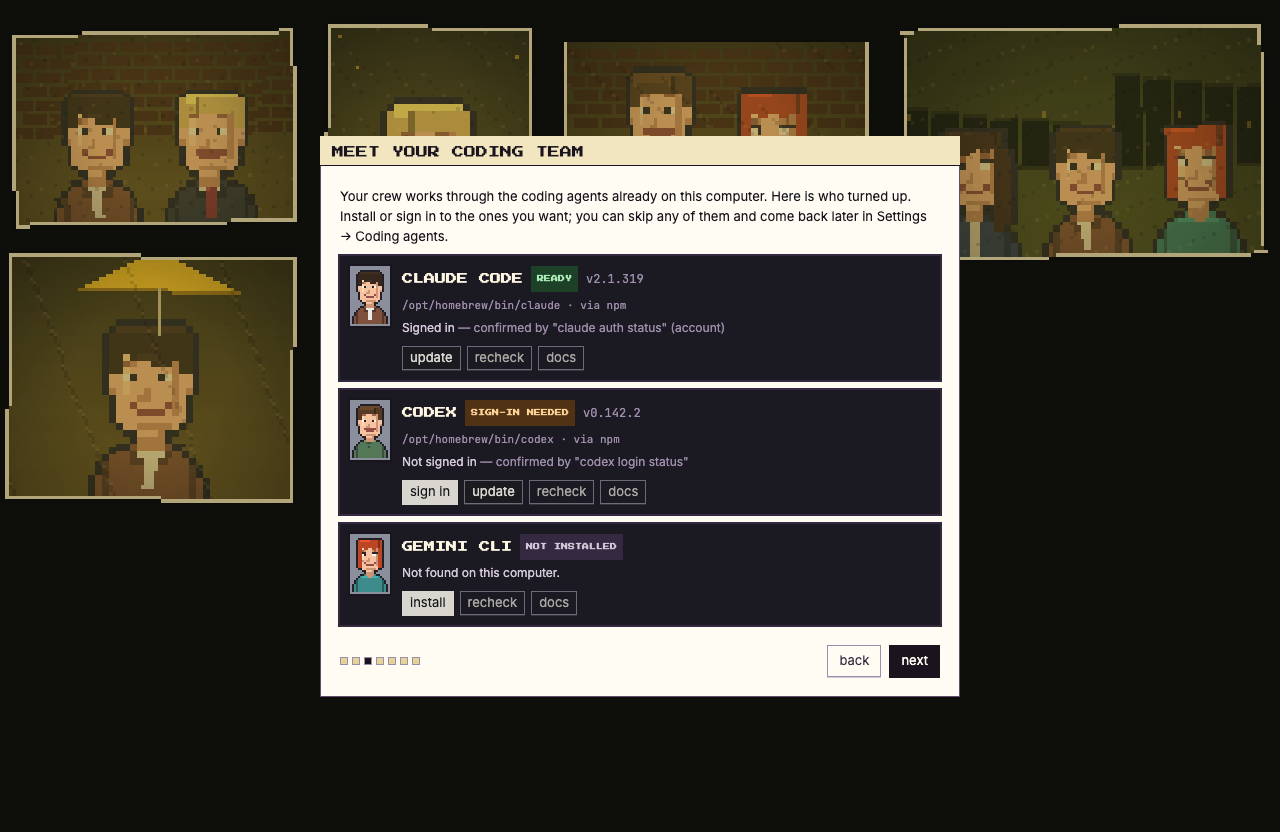
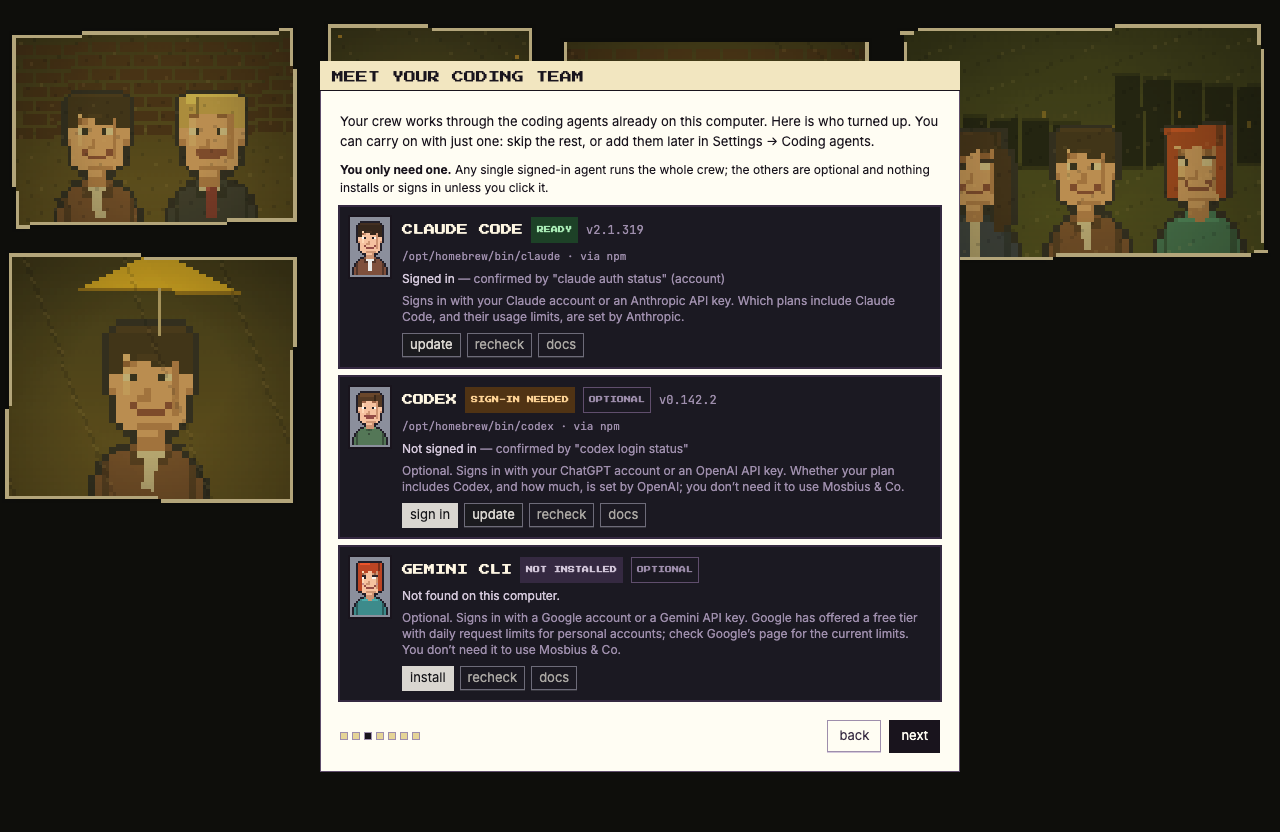
Coding agents are optional: one signed-in agent is enough
Codex and Gemini CLI are marked optional, each card says what signing in
needs without promising free allowances, and setup says you can carry on with
just one agent. Only the engine chosen for the boss (Claude Code by default)
has to be installed; nothing installs or signs in unless the user clicks.

Changed region(s): [[0.25, 0.0625, 0.75, 0.9375]]

diff --git a/src/renderer/src/components/AgentManager.tsx b/src/renderer/src/components/AgentManager.tsx
@@ -26,6 +26,15 @@ interface Status {
 // Who wears each engine on the floor, purely for flavour.
 const FACE: Record<Status['id'], OfficeCharacterName> = { claude: 'ted', codex: 'marshall', gemini: 'lily' };
 
+// What it takes to use each one. Kept deliberately general: plans and free
+// allowances are set by each provider and change, so this points to them rather
+// than promising numbers.
+const ACCESS: Record<Status['id'], string> = {
+  claude: 'Signs in with your Claude account or an Anthropic API key. Which plans include Claude Code, and their usage limits, are set by Anthropic.',
+  codex: 'Optional. Signs in with your ChatGPT account or an OpenAI API key. Whether your plan includes Codex, and how much, is set by OpenAI; you don\u2019t need it to use Mosbius & Co.',
+  gemini: 'Optional. Signs in with a Google account or a Gemini API key. Google has offered a free tier with daily request limits for personal accounts; check Google\u2019s page for the current limits. You don\u2019t need it to use Mosbius & Co.',
+};
+
 function badge(s: Status): { text: string; bg: string; fg: string } {
   if (s.install === 'not-installed') return { text: 'NOT INSTALLED', bg: '#3d2e4a', fg: '#d9cfe0' };
   if (s.install === 'broken') return { text: 'WON’T START', bg: '#5a2020', fg: '#ffd0c8' };
@@ -87,11 +96,10 @@ export function AgentManager({ compact = false }: { compact?: boolean }): JSX.El
   const ink = '#fff8e7', dim = '#a899b5';
   return (
     <div style={{ display: 'flex', flexDirection: 'column', gap: 10, fontSize: 12, color: ink }}>
-      {!compact && (
-        <div style={{ color: '#d9cfe0', lineHeight: '18px' }}>
-          Mosbius & Co uses the coding agents already installed on this computer, signed in with their own official logins. It never asks for your password or reads your login files.
-        </div>
-      )}
+      <div style={{ color: compact ? 'var(--cth-ink-900)' : '#d9cfe0', lineHeight: '18px' }}>
+        {!compact && <>Mosbius & Co uses the coding agents already installed on this computer, signed in with their own official logins. It never asks for your password or reads your login files. </>}
+        <b>You only need one.</b> Any single signed-in agent runs the whole crew; the others are optional and nothing installs or signs in unless you click it.
+      </div>
       {!list && <div style={{ color: dim }}>Looking for coding agents on this computer…</div>}
       {list?.map((s) => {
         const b = badge(s);
@@ -105,6 +113,7 @@ export function AgentManager({ compact = false }: { compact?: boolean }): JSX.El
               <div style={{ display: 'flex', alignItems: 'center', gap: 8, flexWrap: 'wrap' }}>
                 <span style={{ fontFamily: 'var(--cth-font-display)', fontSize: 11 }}>{s.label.toUpperCase()}</span>
                 <span style={{ fontFamily: 'var(--cth-font-display)', fontSize: 7, padding: '3px 6px', background: b.bg, color: b.fg }}>{b.text}</span>
+                {s.id !== 'claude' && s.auth !== 'signed-in' && <span style={{ fontFamily: 'var(--cth-font-display)', fontSize: 7, padding: '3px 6px', boxShadow: 'inset 0 0 0 1px #6b5878', color: '#a899b5' }}>OPTIONAL</span>}
                 {s.version && <span style={{ fontFamily: 'var(--cth-font-mono)', color: dim }}>v{s.version}</span>}
               </div>
               {s.path && <div style={{ fontFamily: 'var(--cth-font-mono)', fontSize: 11, color: dim, marginTop: 3, overflow: 'hidden', textOverflow: 'ellipsis', whiteSpace: 'nowrap' }}>{s.path}{s.via && s.via !== 'unknown' ? `  ·  via ${s.via}` : ''}</div>}
@@ -113,6 +122,7 @@ export function AgentManager({ compact = false }: { compact?: boolean }): JSX.El
                 <span style={{ color: dim }}> — {s.authHow}</span>
               </div>}
               {s.install === 'not-installed' && <div style={{ marginTop: 3, color: '#d9cfe0' }}>Not found on this computer.</div>}
+              <div style={{ marginTop: 4, color: dim, lineHeight: '16px' }}>{ACCESS[s.id]}</div>
               {s.error && <div style={{ marginTop: 3, color: '#ffb4b4' }}>{s.error}</div>}
               {(busy || (log[s.id]?.length ?? 0) > 0) && (
                 <pre style={{ margin: '6px 0 0', padding: 6, background: '#0f0d14', color: '#b4e5bd', fontSize: 10, lineHeight: '14px', maxHeight: 96, overflow: 'auto', whiteSpace: 'pre-wrap' }}>

diff --git a/src/renderer/src/components/OnboardingWizard.tsx b/src/renderer/src/components/OnboardingWizard.tsx
@@ -369,7 +369,7 @@ export function OnboardingWizard({ onComplete }: OnboardingWizardProps) {
             {step === 'team' && (
               <div style={{ display: 'flex', flexDirection: 'column', gap: 10 }}>
                 <div style={{ fontSize: 13, lineHeight: '20px' }}>
-                  Your crew works through the coding agents already on this computer. Here is who turned up. Install or sign in to the ones you want; you can skip any of them and come back later in Settings → Coding agents.
+                  Your crew works through the coding agents already on this computer. Here is who turned up. You can carry on with just one: skip the rest, or add them later in Settings → Coding agents.
                 </div>
                 <AgentManager compact />
               </div>
